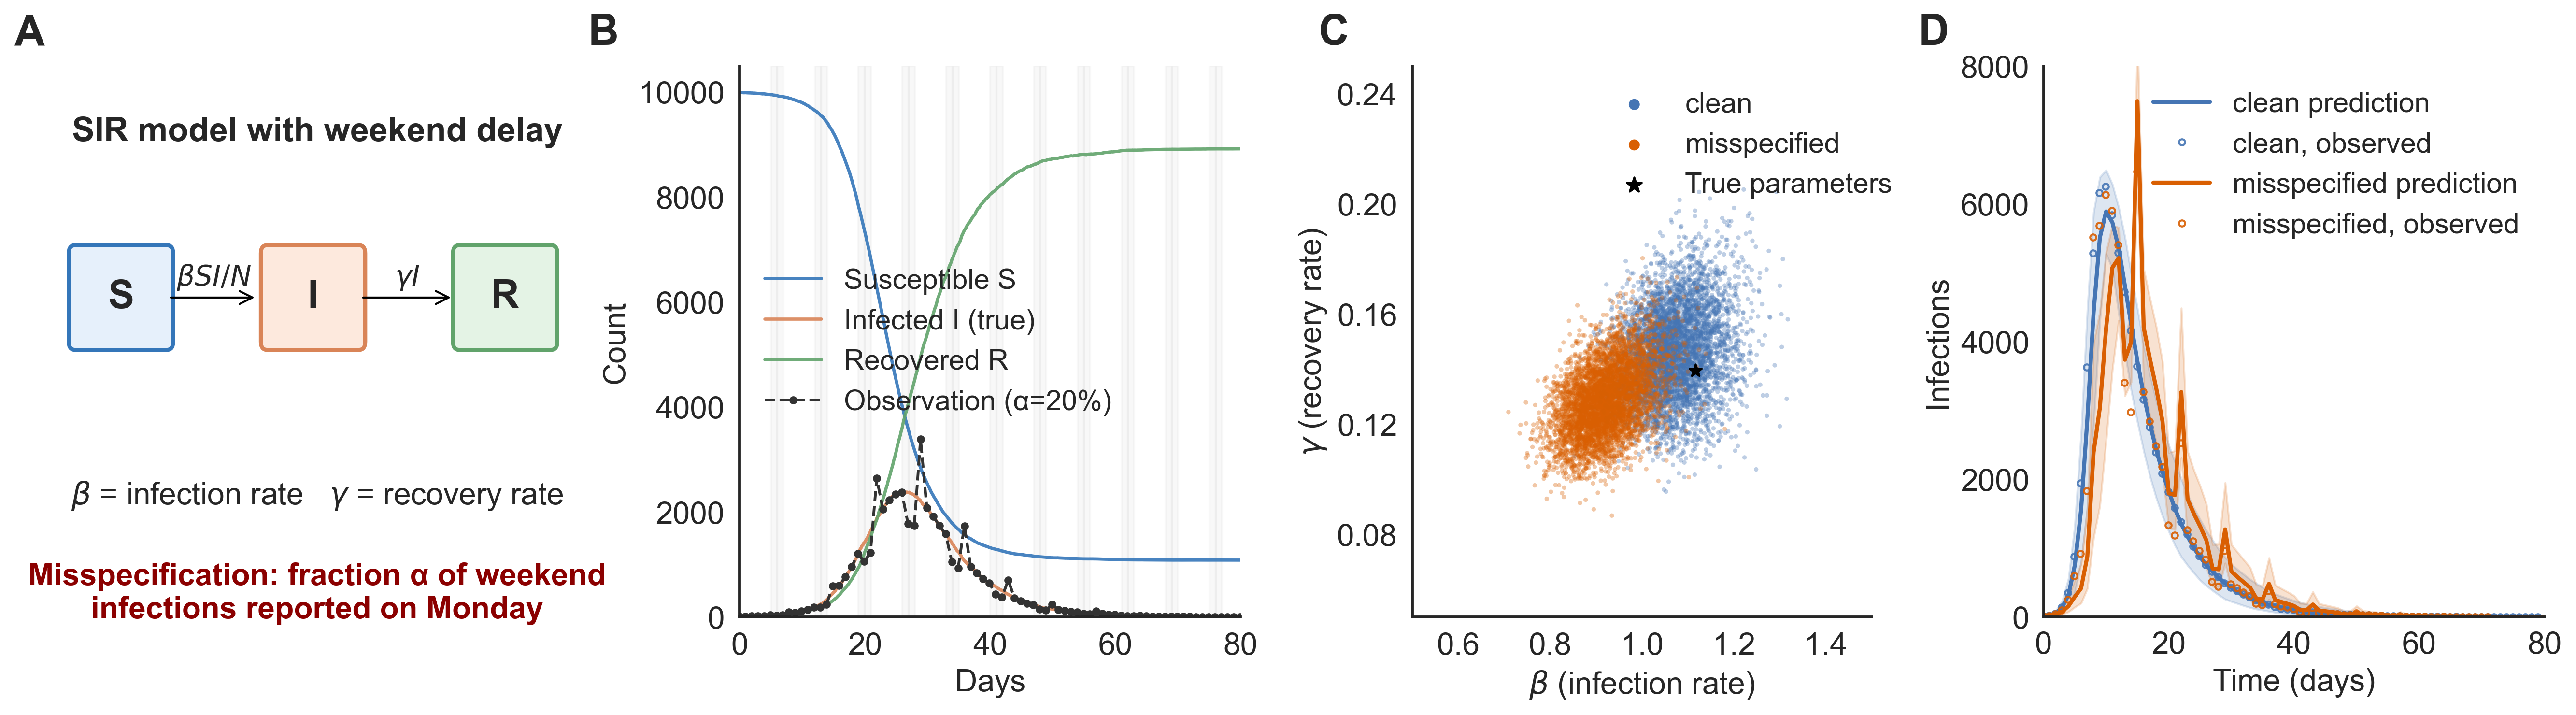
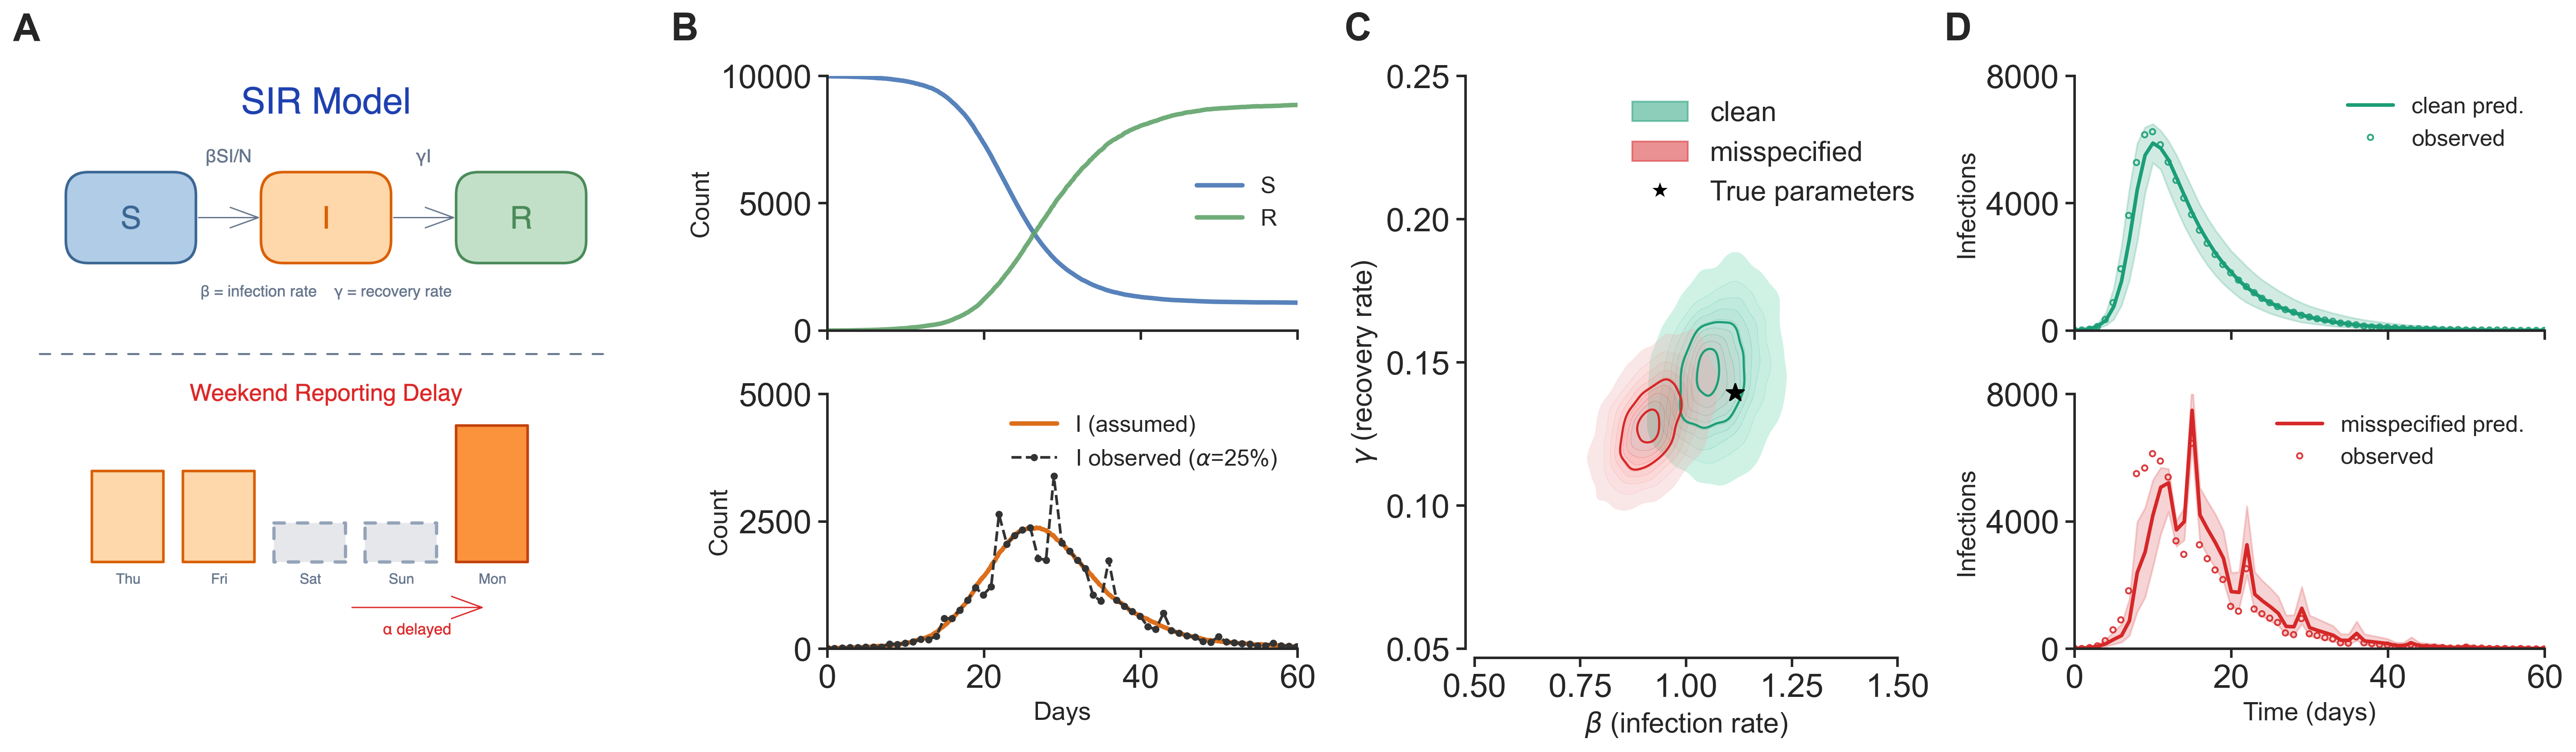
update SIR figure; add author.

diff --git a/_posts/2026-04-27-model-misspecification-in-sbi.md b/_posts/2026-04-27-model-misspecification-in-sbi.md
@@ -24,7 +24,7 @@ mermaid:
 
 # Anonymize when submitting
 authors:
-  - name: Anonymous
+  - name: Jan Teusen (né Boelts), appliedAI Institute for Europe
 
 # must be the exact same name as your blogpost
 bibliography: 2026-04-27-model-misspecification-in-sbi.bib
@@ -97,10 +97,10 @@ characteristic weekly oscillations (Figure 1).
 </div>
 <div class="caption">
   <strong>Figure 1:</strong> SIR model with weekend reporting delay.
-  <strong>A</strong>: Schematic SIR model and misspecification: a fraction α of weekend infections is reported on Monday.
-  <strong>B</strong>: Example epidemic trajectory showing true S, I, R curves and observed infections with a weekend delay.
-  <strong>C</strong>: SBI posterior samples for $(\beta, \gamma)$ for clean data (α = 0%, blue) and misspecified data (α=20%, orange), with true parameters marked.
-  <strong>D</strong>: Posterior predictive checks for both cases, illustrating how misspecification shifts and distorts the inferred dynamics. Results generated using the <a href="https://sbi.readthedocs.io/">sbi</a><d-cite key="boelts_sbi_2025"></d-cite> package and SIR specifications from Cannon et al..
+  <strong>A</strong>: Schematic of the SIR compartment model and the weekend reporting delay misspecification: a fraction $\alpha$ of weekend infections is delayed and reported on Monday.
+  <strong>B</strong>: Example epidemic trajectory (top: susceptible and recovered; bottom: assumed vs. observed infections with $\alpha = 25\%$).
+  <strong>C</strong>: Posterior over $(\beta, \gamma)$ under clean ($\alpha = 0$) and misspecified ($\alpha = 25\%$) observations, with true parameters marked.
+  <strong>D</strong>: Posterior predictive checks (top: clean; bottom: misspecified), showing how the misspecified posterior fails to capture the observed dynamics. Results generated using the <a href="https://sbi.readthedocs.io/">sbi</a><d-cite key="boelts_sbi_2025"></d-cite> package and SIR specifications from Cannon et al..
 </div>
 
 To infer infection parameters from observed data, a common SBI approach would be using